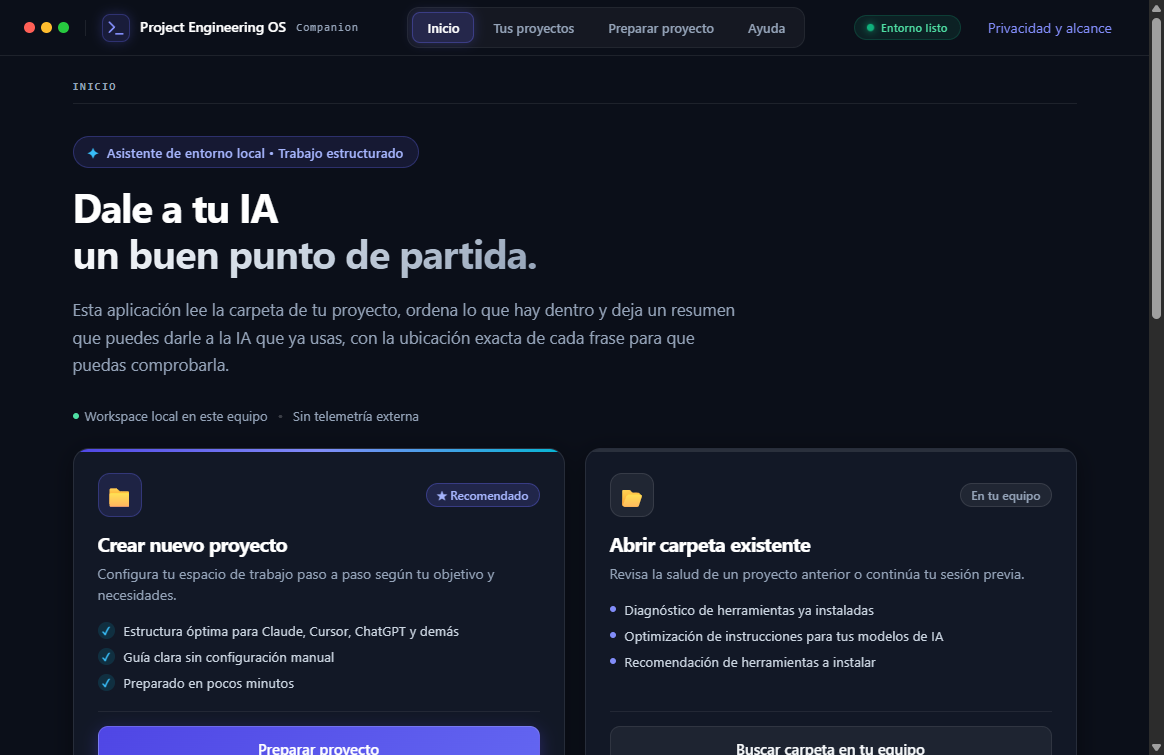
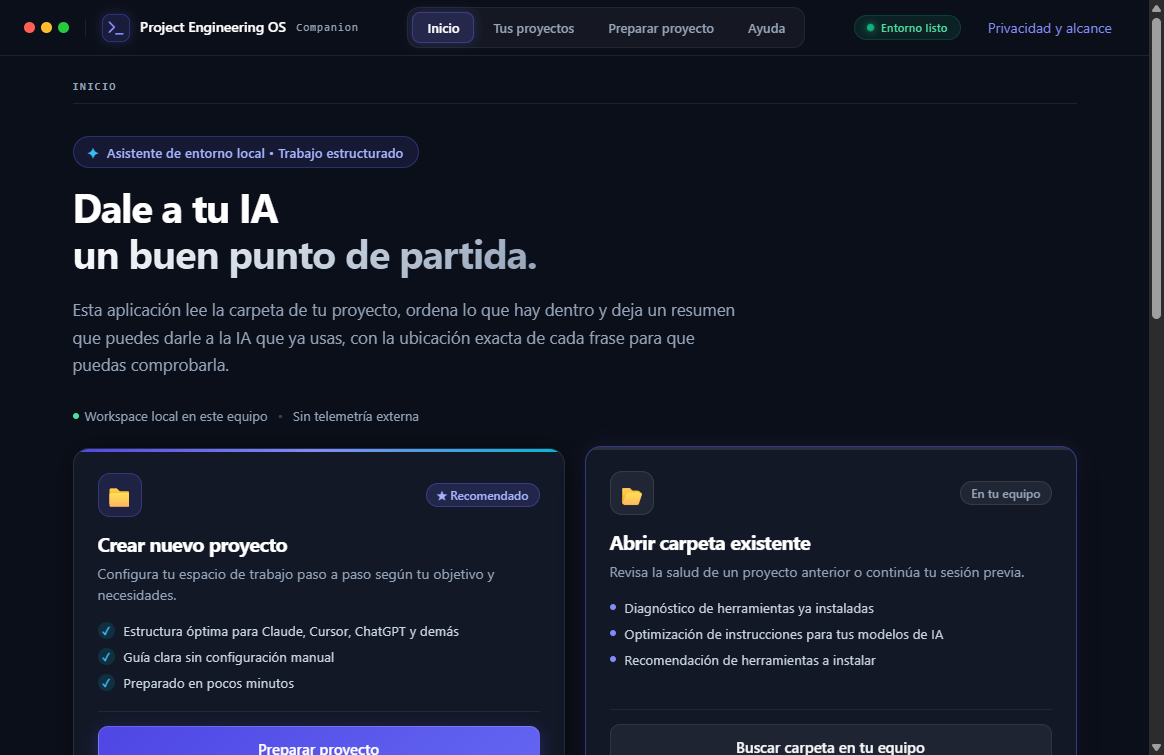
docs(143): recapturar la galeria con el generador endurecido y registrar la revision
Endurecer el generador dejo de ser cierto lo que decian los registros: declaraban
un generador que ya no era el que produjo esas imagenes. Se vuelve a capturar
desde d744c47, con el arbol limpio, y se republica la galeria entera.

- Siete imagenes nuevas con su registro; la galeria, el README y la validacion
  citan el commit, el instante y los hashes de esa ejecucion. 7 capturadas, 7
  publicadas, 0 hallazgos.
- Inspeccion visual de las siete republicadas: contenido identico al de la
  ejecucion anterior, porque apps/companion/ no cambio entre los dos commits.
  Se anota lo que antes no se decia: lo que el paso 1 deja fuera del encuadre y
  los subtipos que no corresponden al perfil en el paso 2.
- Revision adversarial registrada en evidence/adversarial-review.md: una ronda,
  contexto limpio, 0 Blockers, 3 Majors, 7 Minors y 3 Info, todos corregidos.
  readiness.json pasa a passed con 0 abiertos.
- Assessment de deuda clean; el plan upstream-core sigue en 4/5 unidades. El
  defecto del producto que encontro la revision se comento en #145 por decision
  del mantenedor, y no entra al registro.

diff --git a/openspec/changes/restore-screenshot-provenance/evidence/after/inspection.md b/openspec/changes/restore-screenshot-provenance/evidence/after/inspection.md
@@ -1,31 +1,35 @@
 # Inspección visual de las siete capturas
 
 Autoría: dos agentes, el 19 de septiembre de 2026. La primera pasada la hizo el agente que generó las capturas
-(opencode); la segunda, el agente que cerró el change (Claude Opus 5 en Claude Code), que abrió seis de las
-siete imágenes y corrigió dos observaciones de la primera. No es una revisión humana: ninguna persona abrió la
-aplicación ni comparó las imágenes.
+(opencode); la segunda y la tercera, el agente que cerró el change (Claude Opus 5 en Claude Code). No es una
+revisión humana: ninguna persona abrió la aplicación ni comparó las imágenes.
 
-El método fue abrir cada PNG generado y compararlo con la pantalla que `apps/companion/ui/app.mjs` renderiza en
-el commit `766d671`, verificando encabezado, ruta de pantalla, indicador de pasos y controles visibles, y que
+La tercera pasada abrió las siete imágenes republicadas. Tras la revisión adversarial se endureció el
+generador, así que las capturas se rehicieron desde `d744c47` para que su registro siguiera describiendo el
+código que las produjo. El contenido es el mismo que en la ejecución anterior —`apps/companion/` no cambió
+entre `766d671` y `d744c47`—; cambian los bytes, el instante y el sufijo aleatorio de la carpeta de ejemplo.
+
+El método fue abrir cada PNG publicado y compararlo con la pantalla que `apps/companion/ui/app.mjs` renderiza
+en ese commit, verificando encabezado, ruta de pantalla, indicador de pasos y controles visibles, y que
 ninguna imagen contenga elementos de los mocks de Stitch ni datos de la máquina.
 
 | Imagen | Pantalla observada | Observación |
 | --- | --- | --- |
-| `docs/assets/companion/home-companion.png` | Inicio: «Dale a tu IA un buen punto de partida.», tarjetas Crear nuevo proyecto y Abrir carpeta existente | Ventana real con cabecera, píldora «Entorno listo» y barra de navegación. Sin controles inventados. |
+| `docs/assets/companion/home-companion.png` | Inicio: «Dale a tu IA un buen punto de partida.», tarjetas Crear nuevo proyecto y Abrir carpeta existente | Ventana real con cabecera, píldora «Entorno listo» y barra de navegación, con «Inicio» marcado. Sin controles inventados. |
 | `docs/assets/companion-current-home.png` | La misma pantalla de Inicio, segunda captura de la misma ejecución | Difiere en bytes de la anterior por el instante de captura; mismo contenido. |
-| `docs/assets/companion/paso-1-perfil.png` | Paso 1: «Empecemos por lo que quieres lograr.» con nombre y objetivo de ejemplo escritos | El indicador marca 01 Tu proyecto. El perfil es el que la aplicación trae por defecto, «Investigador/a»: el recorrido no lo cambió. La barra inferior muestra Inicio y «Elegir carpeta →». |
-| `docs/assets/companion/paso-2-delimitacion.png` | Delimitación: «¿Cuál es el enfoque principal de tu proyecto?» con la primera tarjeta seleccionada | El indicador marca 02 Carpeta. La tarjeta de la carpeta muestra la ruta pública creada para la captura, sin nombre de cuenta. |
-| `docs/assets/companion/paso-3-vision.png` | Visión: «Cuéntanos en tus palabras: ¿qué quieres lograr?» con el texto del objetivo y contador de 14 palabras | El indicador marca 03 Preparación. Se ven los modos del editor y la barra inferior con Volver y «Paso 4: Instalación →». Las sugerencias quedan debajo del editor, fuera del encuadre. |
-| `docs/assets/companion/paso-4-instalacion.png` | Instalación: «Tu espacio está listo. ¿Cómo prefieres equiparlo?» con las dos tarjetas | El indicador marca 04 Archivos. Las dos opciones y sus botones coinciden con el código; sin telemetría ni métricas inventadas. La tarjeta rápida sigue diciendo que instala dependencias, que es #147. |
+| `docs/assets/companion/paso-1-perfil.png` | Paso 1: «Empecemos por lo que quieres lograr.» con nombre y objetivo de ejemplo escritos | El indicador marca 01 Tu proyecto. El rol es el que la aplicación trae por defecto, «Investigador/a»: el recorrido no lo cambió. «¿Qué vas a hacer?» empieza justo en el borde inferior y sus tarjetas quedan cortadas; la tecnología, la IA y «¿Cuánta guía prefieres?» quedan fuera del encuadre, y la galería lo dice. |
+| `docs/assets/companion/paso-2-delimitacion.png` | Delimitación: «¿Cuál es el enfoque principal de tu proyecto?» con la primera tarjeta seleccionada | El indicador marca 02 Carpeta. La tarjeta de la carpeta muestra la ruta pública creada para la captura, sin nombre de cuenta. El subtítulo pide elegir «el subtipo para Investigación» y las tarjetas que ofrece son las de software, con la primera ya marcada: es el defecto de #145, visible en el producto, y la galería lo nombra. |
+| `docs/assets/companion/paso-3-vision.png` | Visión: «Cuéntanos en tus palabras: ¿qué quieres lograr?» con el texto del objetivo y contador de 14 palabras | El indicador marca 03 Preparación. Se ven los modos del editor, «Asistencia activa» y la barra inferior con Volver y «Paso 4: Instalación →». Las sugerencias quedan debajo del editor, fuera del encuadre. |
+| `docs/assets/companion/paso-4-instalacion.png` | Instalación: «Tu espacio está listo. ¿Cómo prefieres equiparlo?» con las dos tarjetas | El indicador marca 04 Archivos. Las dos opciones y sus botones coinciden con el código; sin telemetría ni métricas inventadas. La tarjeta rápida sigue diciendo que instala dependencias base, que es #147. |
 | `docs/assets/companion/proyecto-listo-activacion.png` | Pantalla final: «¡Tu proyecto está listo para cobrar vida!» con ruta, Copiar ruta y el Prompt Maestro | La ruta y el prompt muestran la carpeta pública neutra; el texto del prompt coincide con el modo IA del código. «Carpeta:» aparece pegado a la ruta: es el estilo en línea que la CSP bloquea, anotado en #144. |
 
 Ninguna imagen muestra los controles que solo existían en los mocks («Telemetría & Logs», «V8 Runtime
 Online», «bundle_size: 142MB», «Target: macOS/arm64», «100% determinista»).
 
-De los defectos cosméticos conocidos de la ventana real, en estas capturas se ve el estilo bloqueado por la
-CSP en la pantalla final, y la galería lo dice. La cabecera no parte palabras a 1164 px; eso ocurre a anchos
-menores. Los dos están anotados en #144.
+De los defectos conocidos de la ventana real, en estas capturas se ven el estilo bloqueado por la CSP en la
+pantalla final (#144) y los subtipos que no corresponden al perfil en el paso 2 (#145). La cabecera no parte
+palabras a 1164 px; eso ocurre a anchos menores, y también está en #144.
 
 El registro de ejecución con versiones, ventana, consola y hallazgos está en
-[capture-run.json](captures/capture-run.json): 7 imágenes, 0 hallazgos, 7 errores de consola, todos de la CSP
-por esos estilos en línea.
+[capture-run.json](captures/capture-run.json): 7 imágenes capturadas, 7 publicadas, 0 hallazgos y 7 errores de
+consola, todos de la CSP por esos estilos en línea.

diff --git a/openspec/changes/restore-screenshot-provenance/evidence/adversarial-review.md b/openspec/changes/restore-screenshot-provenance/evidence/adversarial-review.md
@@ -1,0 +1,53 @@
+# Revisión adversarial — restore-screenshot-provenance
+
+Una ronda, hecha por un agente. Según [CONTRIBUTING.md](../../../../CONTRIBUTING.md), la revisión de un agente
+sobre trabajo de agentes no es revisión humana ni independiente, y esta no lo es. La integración sigue la
+delegación explícita del mantenedor ([decisiones](maintainer-decisions.md)).
+
+| Ronda | Quién | Contexto | Alcance |
+| --- | --- | --- | --- |
+| 1 | Un agente revisor (Claude Opus 5) sin la conversación del apply | Contexto limpio: solo el repositorio y las instrucciones de revisión, en solo lectura | Diff de `eefa1bc..51a9b5a`: comprobación de procedencia, generador de capturas, pruebas, galería, README, estado, prototipos rotulados y el change entero |
+
+Resultado: **0 Blockers, 3 Majors, 7 Minors y 3 Info**. Los tres Majors y los siete Minors están corregidos en
+`d744c47`; los Info, en el mismo commit y en la reejecución posterior. El revisor no volvió a pasar sobre las
+correcciones: quien las verificó fue el agente que las hizo, y eso no equivale a una segunda ronda.
+
+La revisión encontró además un defecto del producto que no es de este change: en el paso 2, con el perfil
+«Investigación», la aplicación ofrece los subtipos de software. Por decisión del mantenedor se comentó en
+[#145](https://github.com/IgnacioBarEsp/project-engineering-os/issues/145), que ya rehace esa taxonomía, y la
+galería lo nombra donde se ve.
+
+## Majors
+
+| # | Hallazgo | Resolución |
+| --- | --- | --- |
+| 1 | El [README](../../../../README.md) decía «selecciona uno de los 7 perfiles canónicos». La aplicación ofrece seis roles en «¿Con qué perfil te identificas?» y once tipos en «¿Qué vas a hacer?»; los siete perfiles canónicos son claves internas de `DELIMITATIONS` que nadie elige por ese nombre. Publicar una afirmación falsa sobre la pantalla es el defecto que este change corrige, en el mismo documento. | El paso 3 describe la pantalla real: nombre, objetivo, con qué perfil te identificas y qué vas a hacer. |
+| 2 | La [galería](../../../../docs/companion/SCREENSHOTS.md) decía que «las tarjetas de subtipo afinan las recomendaciones del perfil elegido», y su propia captura muestra lo contrario: subtitulada «Elige el subtipo para Investigación», ofrece Plataforma Web / SaaS, Página Web o Landing y Aplicación Móvil. El texto contradecía a la imagen que acompaña, que es exactamente lo que #143 arregla. Además, «perfil» nombraba dos cosas distintas en las secciones 2 y 3: el rol de la persona y el perfil del proyecto. | La sección 3 describe lo que muestra la imagen, dice que la primera tarjeta aparece marcada sin que nadie la eligiera y lo anota como defecto abierto (#145). La sección 2 distingue el rol del perfil del proyecto. El defecto se añadió a «Lo que se ve y está abierto». |
+| 3 | El [diseño](../design.md) afirmaba que, si las capturas volvieran a ser de navegador, la regla de `public-guidance.mjs` obligaría a declararlo. Esa regla solo comprueba que la frase «ventana real de la aplicación» esté escrita; nada impedía escribirla sobre capturas de navegador. El mismo comentario estaba en el código. | La comprobación de procedencia contrasta ahora el texto publicado con los registros: la galería tiene que citar el commit, el motor y la forma de ejecutar que ellos declaran. Con eso la afirmación es cierta, y el diseño y el comentario lo explican en esos términos. |
+
+## Minors
+
+| # | Hallazgo | Resolución |
+| --- | --- | --- |
+| 1 | `USER_PATH_RE` exigía un separador detrás del nombre de la cuenta, así que `C:\Users\ana` al final de un valor pasaba, y no reconocía la forma `/Users/` de macOS. | Regex reescrita; tres casos cubiertos en pruebas, incluidos el final de cadena y `/Users/`. |
+| 2 | El registro declaraba `width` y `height` y nadie los comparaba con la imagen: recortar una captura y rehacer hash y tamaño cuadraba. | Se leen ancho y alto del IHDR del PNG y se comparan. Otros formatos no se miden, y el diseño lo dice. |
+| 3 | La superficie era una lista de dos rutas. Una imagen nueva, en otra subcarpeta o en otro formato, no se comprobaba; y si alguien movía las imágenes, la comprobación pasaba por vacío. | El alcance es todo lo que cuelga de `docs/assets/companion*`, a cualquier profundidad y en ocho formatos, y falla si no encuentra ninguna imagen que comprobar. |
+| 4 | El generador escribía cada imagen y su registro según los capturaba. Una ejecución interrumpida dejaba media galería del commit nuevo y media del viejo, cada mitad con su registro válido. | Publica todo o nada: captura a una carpeta de trabajo y copia a `docs/assets/` solo con las siete. Y la comprobación rechaza imágenes publicadas con commits distintos, que es la mitad que no depende del generador. |
+| 5 | La carpeta pública y el directorio temporal se creaban antes del `try`; Ctrl-C no borraba nada; y el `finally` tenía una aserción que, al fallar, habría dejado la carpeta puesta y tapado el error real. | Las carpetas se crean dentro del `try`, `SIGINT` y `SIGTERM` limpian, y el `finally` llama a una limpieza idempotente sin aserciones que comprueba cada ruta y registra lo que no borre. |
+| 6 | `window` y `screen` se aceptaban vacíos —`{}` decía lo mismo que no declararlos— y cualquier campo de más pasaba sin nota. El fixture de pruebas usaba una forma que el generador real nunca produce, que es como el hueco sobrevivió. | Se exigen `window.outer`, `window.viewport`, `devicePixelRatio`, `screen.id` y `screen.title`, se rechaza lo que no esté en el contrato v1, y el fixture usa ahora la forma real. |
+| 7 | La sección del paso 1 de la galería decía que la pantalla pide cuatro cosas y no mencionaba los tres grupos que quedan fuera del encuadre. | Nombra lo que se ve, lo que corta el borde y los tres grupos que no aparecen. |
+
+## Info
+
+- **Cobertura:** las pruebas nuevas cubren cada rechazo añadido. `test/screenshot-provenance.test.mjs` pasa de
+  7 a 14 casos.
+- **Casos negativos documentados:** la escritura a medias y la comprobación sin nada que comprobar están
+  descritas en el [diseño](../design.md) y en la [validación](validation.md), y cada una tiene su prueba.
+- **Medición al día:** las capturas se rehicieron desde `d744c47` con el generador endurecido, y `npm run check`
+  se volvió a ejecutar sobre el árbol final ([check.json](after/check.json)).
+
+## Lo que esta revisión no cubre
+
+- Ninguna persona revisó este change.
+- El revisor leyó el diff y el repositorio; no ejecutó la aplicación ni regeneró las capturas.
+- Las correcciones a sus hallazgos no las revisó nadie más que quien las escribió.

diff --git a/openspec/changes/restore-screenshot-provenance/evidence/validation.md b/openspec/changes/restore-screenshot-provenance/evidence/validation.md
@@ -5,7 +5,7 @@ Ejecutada el 19 de septiembre de 2026 por dos agentes: el que implementó la com
 comprobaciones. Las decisiones que las enmarcan son del mantenedor y están en
 [decisiones](maintainer-decisions.md).
 
-- **Capturas:** generadas desde `766d671`, con el árbol limpio, en la ventana real de Electron.
+- **Capturas:** generadas desde `d744c47`, con el árbol limpio, en la ventana real de Electron.
 - **Comprobaciones y documentación:** medidas en `1b37743`.
 - **Equipo:** Windows 11 IoT Enterprise LTSC 2024, x64, con Node 24.18.0 y Electron 44.1.1 (Chromium 152).
 
@@ -33,19 +33,19 @@ comprobaciones. Las decisiones que las enmarcan son del mantenedor y están en
 ## Las capturas
 
 Siete imágenes de 1164 × 755 px CSS, tomadas en la ventana por defecto de la aplicación (1180 × 820) con
-`devicePixelRatio` 1, ejecutando `electron .` sobre `766d671` con Companion 0.3.2. El registro de la ejecución
+`devicePixelRatio` 1, ejecutando `electron .` sobre `d744c47` con Companion 0.3.2. El registro de la ejecución
 es [capture-run.json](after/captures/capture-run.json): 7 imágenes, 0 hallazgos y 7 errores de consola, todos
 de la CSP por los estilos en línea previos (#144).
 
 | Imagen | Pantalla | SHA-256 |
 | --- | --- | --- |
-| `docs/assets/companion/home-companion.png` | Inicio | `6561a148…ffb2e6d2` |
-| `docs/assets/companion-current-home.png` | Inicio, para el README | `d32afe98…06ae16f2` |
-| `docs/assets/companion/paso-1-perfil.png` | Paso 1, «01 Tu proyecto» | `890c2ffd…76ac8af2` |
-| `docs/assets/companion/paso-2-delimitacion.png` | Delimitación, «02 Carpeta» | `55ca30ad…03eaec28` |
-| `docs/assets/companion/paso-3-vision.png` | Visión, «03 Preparación» | `6b545d29…296e4b9f` |
-| `docs/assets/companion/paso-4-instalacion.png` | Instalación, «04 Archivos» | `178a1d22…716c696e` |
-| `docs/assets/companion/proyecto-listo-activacion.png` | Proyecto listo | `c4f3df32…7a1847c4` |
+| `docs/assets/companion/home-companion.png` | Inicio | `1f5ec9e9…c698d775` |
+| `docs/assets/companion-current-home.png` | Inicio, para el README | `60e93f5a…c7677bad` |
+| `docs/assets/companion/paso-1-perfil.png` | Paso 1, «01 Tu proyecto» | `5d58a756…1dcb91a1` |
+| `docs/assets/companion/paso-2-delimitacion.png` | Delimitación, «02 Carpeta» | `07e7ca92…12311d27` |
+| `docs/assets/companion/paso-3-vision.png` | Visión, «03 Preparación» | `d4e5c5aa…868df1e1` |
+| `docs/assets/companion/paso-4-instalacion.png` | Instalación, «04 Archivos» | `1e5ab0c0…3ed846da` |
+| `docs/assets/companion/proyecto-listo-activacion.png` | Proyecto listo | `6fa75cc1…ada76603` |
 
 **Privacidad:** el recorrido usa un proyecto de ejemplo en una carpeta pública creada para la captura y borrada
 al terminar, así que ninguna imagen muestra el nombre de la cuenta. El generador aborta si el registro contiene
@@ -60,15 +60,25 @@ del paso 1.
 `scripts/screenshot-provenance.mjs` se ejecuta desde `scripts/check-docs.mjs`, es decir, dentro de
 `npm run check`. Rechaza una imagen publicada cuando:
 
-- no tiene registro, el registro no es JSON o le falta un campo del contrato v1;
-- el SHA-256 o el tamaño del registro no coinciden con los bytes;
+- no tiene registro, el registro no es JSON, le falta un campo del contrato v1 o trae uno de más;
+- el SHA-256, el tamaño o las dimensiones del registro no coinciden con los bytes;
 - el generador que declara no existe en el repositorio o apunta fuera de él;
 - el registro contiene una ruta de usuario;
 - la imagen es idéntica a una de `docs/stitch uxui/`.
 
-Siete pruebas cubren esos rechazos con repositorios fixture, más una prueba de que la guía pública rechaza
-declarar «renderer real en navegador» cuando las capturas son de la ventana real. `test/screenshot-provenance.test.mjs`
-pasa 7 de 7 y `test/public-guidance.test.mjs`, 10 de 10.
+- no hay ninguna imagen publicada que comprobar, o las que hay declaran commits distintos;
+- la galería no cita el commit, el motor o la forma de ejecutar que declaran los registros.
+
+El alcance es la carpeta publicada, no una lista de rutas: cualquier imagen bajo `docs/assets/companion*`, a
+cualquier profundidad y en cualquier formato, necesita registro. Catorce pruebas cubren esos rechazos con
+repositorios fixture, más una prueba de que la guía pública rechaza declarar «renderer real en navegador»
+cuando las capturas son de la ventana real. `test/screenshot-provenance.test.mjs` pasa 14 de 14 y
+`test/public-guidance.test.mjs`, 10 de 10.
+
+Lo que esa comprobación no puede hacer sola: decidir si una frase es cierta. `public-guidance.mjs` solo exige
+que el entorno esté declarado; lo que ata esa declaración a los hechos es el contraste con los registros. Si
+las capturas volvieran a generarse en un navegador, sus registros lo dirían y la galería tendría que decirlo
+también, o `check:docs` falla.
 
 ## Documentación
 

diff --git a/docs/companion/SCREENSHOTS.md b/docs/companion/SCREENSHOTS.md
@@ -81,24 +81,24 @@ que ejecutó.
 
 | Dato | Valor |
 | --- | --- |
-| Fuente | [Commit 766d671](https://github.com/IgnacioBarEsp/project-engineering-os/tree/766d671e880156638e0e68e70479ed59b3db04f6) |
+| Fuente | [Commit d744c47](https://github.com/IgnacioBarEsp/project-engineering-os/tree/d744c47ffb618543c18270312810de3a260e7eea) |
 | Versión de la aplicación | 0.3.2 |
 | Entorno | Ventana real de la aplicación en Windows 11, ejecutada desde el código con `electron .` |
 | Motor | Electron 44.1.1, Chromium 152.0.7977.65 |
 | Ventana | 1180 × 820 exterior; 1164 × 755 px CSS, `devicePixelRatio` 1 |
-| Ejecución UTC | 2026-09-19T19:55:20.856Z |
+| Ejecución UTC | 2026-09-19T22:54:20.817Z |
 | Generador | `apps/companion/scripts/capture-screenshots.mjs` |
 | Sustituido | El selector de carpetas del sistema, que un script no puede manejar, y los datos de usuario, aislados en un directorio temporal |
 
 | Imagen | SHA-256 | Bytes |
 | --- | --- | --- |
[14 lines of base64/hex data omitted]
 
 Las capturas de Inicio son dos ejecuciones del mismo momento del recorrido: una para esta galería y otra para
 el README. Difieren en bytes, no en contenido.

diff --git a/openspec/changes/restore-screenshot-provenance/tasks.md b/openspec/changes/restore-screenshot-provenance/tasks.md
@@ -23,8 +23,8 @@
 
 ## 5. Cierre
 
-- [ ] 5.1 Pasar la revisión adversarial desde contexto limpio y resolver sus Blockers y Majors.
-- [ ] 5.2 Capturar el assessment de deuda después de la última pasada de revisión.
+- [x] 5.1 Pasar la revisión adversarial desde contexto limpio y resolver sus Blockers y Majors.
+- [x] 5.2 Capturar el assessment de deuda después de la última pasada de revisión.
 - [ ] 5.3 Sustituir los estados pendientes de readiness solo con evidencia ejecutada, y pasar strict y el gate de archive con `--run-local`.
 - [ ] 5.4 Archivar con el CLI local, corregir los enlaces del change archivado, firmar los commits con DCO y entregar por PR protegido. La integración queda sujeta a la CI requerida y a la decisión del mantenedor.
 

diff --git a/README.md b/README.md
@@ -42,7 +42,7 @@ publicado; un hash coincidente verifica el archivo, no sustituye la firma del ed
 
 ![Inicio de Companion: titular, tarjetas para crear un proyecto nuevo o abrir una carpeta existente, y la barra superior con Inicio, Tus proyectos, Preparar proyecto y Ayuda](docs/assets/companion-current-home.png)
 
-Ventana real de la aplicación 0.3.2, ejecutada desde el código del commit `766d671` el 19 de septiembre de 2026. **No es una captura del instalador.**
+Ventana real de la aplicación 0.3.2, ejecutada desde el código del commit `d744c47` el 19 de septiembre de 2026. **No es una captura del instalador.**
 [Procedencia y galería de pantallas](docs/companion/SCREENSHOTS.md).
 
 ## Qué te ayuda a hacer
